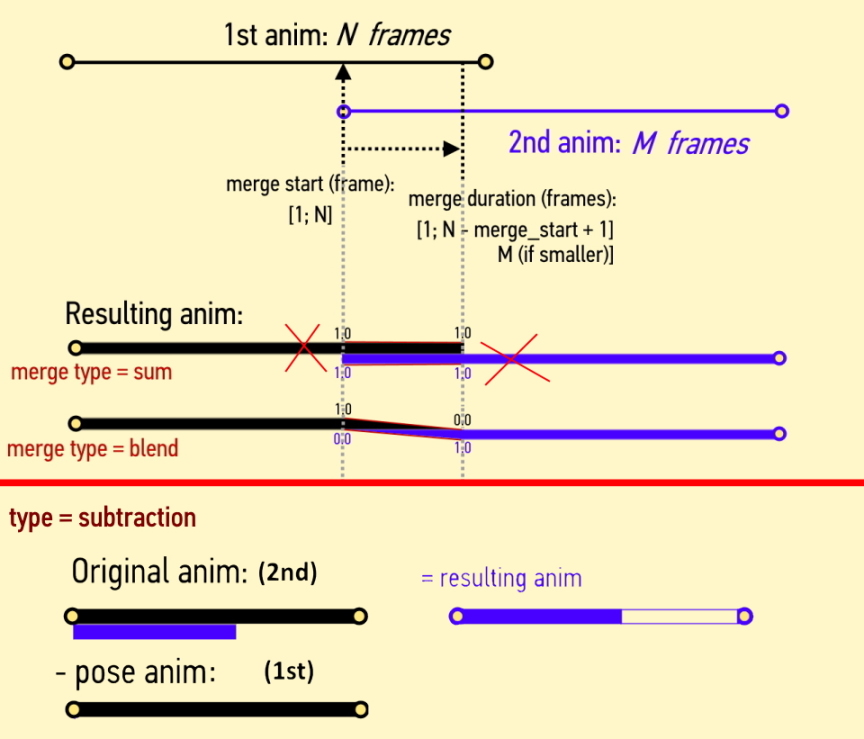
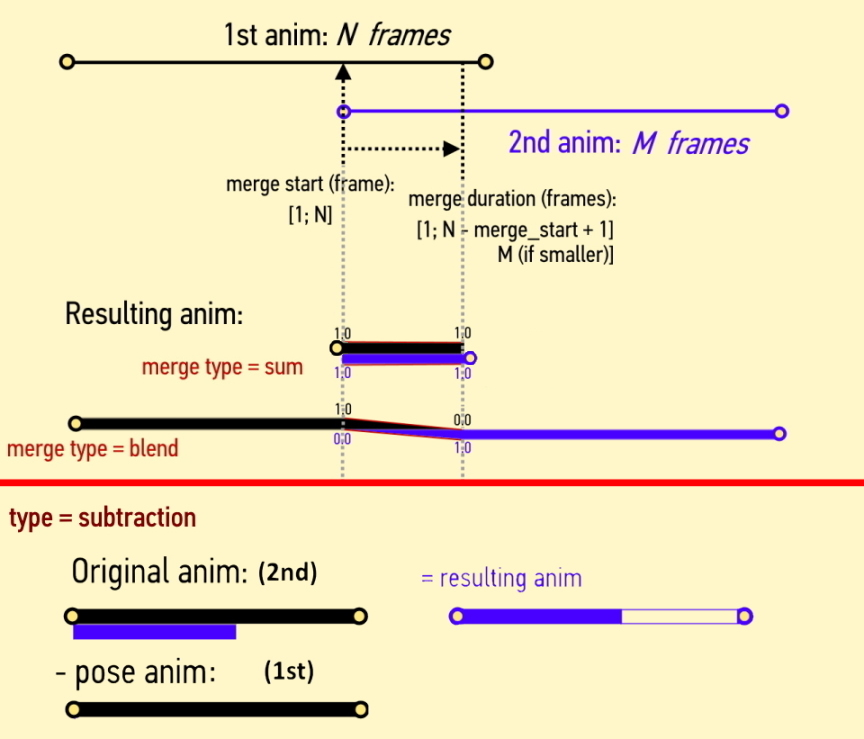
+ Update v2.1: fix bugs & small additions

Changed region(s): [[0.0, 0.4357, 0.4062, 0.5291], [0.5312, 0.4668, 0.9375, 0.5291]]

diff --git a/source/W3MayaAnimUtil.cpp b/source/W3MayaAnimUtil.cpp
@@ -192,7 +192,7 @@ void W3MayaAnimUtil::onClicked_Load() {
 }
 void W3MayaAnimUtil::setCurrentAnimInfo(int bones, int events, int frames, double duration, bool rootMotion, bool motionExtraction) {
     if (frames == -1 && duration < 0) {
-        ui->labelEditInfo->setText("<html><head/><body><p><span style=\"font-weight:700;\">Bones</span>: -. <span style=\"font-weight:700;\">Events</span>: -. <span style=\"font-weight:700;\">Duration</span>: - frames (- s), <span style=\"color:#ff0000;\">rootMotion</span>, <span style=\"color:#ff0000;\">motionExtraction</span><span style=\"color:#000000;\">. </span><span style=\"font-weight:700; color:#000000;\">Anim name</span><span style=\"color:#000000;\">: </span></p></body></html>");
+        ui->labelEditInfo->setText("<html><head/><body><p><span style=\"font-weight:700;\">Bones</span>: -. <span style=\"font-weight:700;\">Events</span>: -. <span style=\"font-weight:700;\">Duration</span>: - frames (- s), <span style=\"color:#ff0000;\">RootMotion</span>, <span style=\"color:#ff0000;\">motionExtraction</span><span style=\"color:#000000;\">. </span><span style=\"font-weight:700; color:#000000;\">Anim name</span><span style=\"color:#000000;\">: </span></p></body></html>");
         ui->spinEditStart->setValue(-1);
         ui->spinEditDuration->setValue(-1);
         ui->spinEditEnd->setValue(-1);
@@ -202,7 +202,7 @@ void W3MayaAnimUtil::setCurrentAnimInfo(int bones, int events, int frames, doubl
         ui->buttonEditApply->setEnabled(false);
         ui->buttonEditApplyAll->setEnabled(false);
     } else {
-        ui->labelEditInfo->setText(QString("<html><head/><body><p><span style=\"font-weight:700;\">Bones</span>: %1. <span style=\"font-weight:700;\">Events</span>: %2. <span style=\"font-weight:700;\">Duration</span>: %3 frames (%4 s), <span style=\"color:%5;\">rootMotion</span>, <span style=\"color:%6;\">motionExtraction</span><span style=\"color:#000000;\">. </span><span style=\"font-weight:700; color:#000000;\">Anim name</span><span style=\"color:#000000;\">: </span></p></body></html>")
+        ui->labelEditInfo->setText(QString("<html><head/><body><p><span style=\"font-weight:700;\">Bones</span>: %1. <span style=\"font-weight:700;\">Events</span>: %2. <span style=\"font-weight:700;\">Duration</span>: %3 frames (%4 s), <span style=\"color:%5;\">RootMotion</span>, <span style=\"color:%6;\">motionExtraction</span><span style=\"color:#000000;\">. </span><span style=\"font-weight:700; color:#000000;\">Anim name</span><span style=\"color:#000000;\">: </span></p></body></html>")
                                    .arg(bones)
                                    .arg(events)
                                    .arg(frames)
@@ -241,6 +241,9 @@ void W3MayaAnimUtil::applyEdits() {
         ui->comboEditAnims->setItemText(m_animIndex, animName);
         m_animNames[m_animIndex] = animName;
         hasChanges = true;
+    }
+    if (ui->checkEditAddRootMotion->isChecked()) {
+
     }
     if (ui->groupEditBake->isChecked()) {
         editBakeBones(animObj, ui->checkEditBakePos->isChecked(), ui->checkEditBakeRot->isChecked(), ui->checkEditBakeScale->isChecked());
@@ -394,6 +397,34 @@ void W3MayaAnimUtil::editCropAnim(QJsonObject& animObj, QJsonArray& eventsArray,
            .arg( framesToSec(durationFrames - 1) ));
 }
 
+void W3MayaAnimUtil::editAddEmptyBone(QJsonArray& bonesArr, QString boneName) {
+    int last_index = 0;
+    if (!bonesArr.isEmpty()) {
+        last_index = bonesArr.last().toObject().value("index").toInt();
+    }
+    addLog(QString("\t[EDIT] Adding empty bone %1 with index %2").arg(boneName).arg(last_index + 1));
+
+    QJsonObject newBoneObj = QJsonObject();
+    newBoneObj.insert("BoneName", boneName);
+    newBoneObj.insert("index", last_index + 1);
+
+    double dt = 0.033333333;
+    QString attrNames[3] = { "position", "rotation", "scale" };
+    upn(j, 0, 2) {
+        newBoneObj.insert(QString("%1_numFrames").arg(attrNames[j]), 1);
+        QJsonArray attrArray = QJsonArray();
+        if (attrNames[j] == "rotation")
+            attrArray.append(objXYZW(0,0,0,1));
+        else if (attrNames[j] == "position")
+            attrArray.append(objXYZ(0,0,0));
+        else
+            attrArray.append(objXYZ(1,1,1));
+        newBoneObj.insert(QString("%1Frames").arg(attrNames[j]), attrArray);
+        newBoneObj.insert(QString("%1_dt").arg(attrNames[j]), dt);
+    }
+    bonesArr.append(newBoneObj);
+}
+
 void W3MayaAnimUtil::editBakeBones(QJsonObject& animObj, bool bakePos, bool bakeRot, bool bakeScale) {
     QJsonObject animBuff = animObj.value("animBuffer").toObject();
     int animFrames = animBuff.value("numFrames").toInt();
@@ -531,6 +562,12 @@ void W3MayaAnimUtil::onChanged_EditCurrentAnim(int newAnimIndex) {
             rootMotion = true;
             break;
         }
+    }
+    if (rootMotion) {
+        ui->checkEditAddRootMotion->setChecked(false);
+        ui->checkEditAddRootMotion->setEnabled(false);
+    } else {
+        ui->checkEditAddRootMotion->setEnabled(true);
     }
     ui->spinEditStart->setMaximum(animFrames);
     ui->spinEditDuration->setMaximum(animFrames);
@@ -780,9 +817,11 @@ void W3MayaAnimUtil::blendMotion(QVector<double>& motion, int animFrames, const 
 }
 void W3MayaAnimUtil::blendPos(QJsonArray& posArray, int targetFrames) {
     QJsonArray resArray;
-    resArray.append( posArray.first() );
     int frames = posArray.count();
     qDebug() << QString("blendPos [%1] -> [%2]").arg(frames).arg(targetFrames);
+    if (frames > targetFrames) {
+        addLog(QString("[ERROR] BlendPos: can't bake! posArray size (%1) is bigger than required (%2).").arg(frames).arg(targetFrames), logError);
+    }
     if (frames == targetFrames)
         return;
     if (frames == 1) {
@@ -792,20 +831,23 @@ void W3MayaAnimUtil::blendPos(QJsonArray& posArray, int targetFrames) {
         posArray = resArray;
         return;
     }
+    resArray.append( posArray.first() );
 
-    double partSize = (targetFrames - 1) / (frames - 1);
-    double currentPartSize = 0;
+    double partSize = (targetFrames - 1.0) / (frames - 1.0);
+    double currentPartSize = 0.0;
+    qDebug() << QString("blendPos.partSize = %1").arg(partSize);
     int j = 0;
     double X1, Y1, Z1;
     double X2, Y2, Z2;
     for (int i = 2; i < targetFrames; i += 1) {
         currentPartSize += 1.0;
+        //qDebug() << QString("blendPos.frame: %1, currentPartSize = %1").arg(currentPartSize);
         if (currentPartSize > partSize) {
             j += 1;
             currentPartSize -= partSize;
         }
         double k = currentPartSize / partSize;
-        qDebug() << QString("blendPos.frame: %1, k = %2").arg(i).arg(k);
+        //qDebug() << QString("blendPos.frame: %1, k = %2, currentPartSize = %3").arg(i).arg(k).arg(currentPartSize);
         k = qMin(1.0, qMax(0.0, k));
         // [j..j+1]
         objToXYZ(posArray[j].toObject(),       X1, Y1, Z1);
@@ -813,15 +855,18 @@ void W3MayaAnimUtil::blendPos(QJsonArray& posArray, int targetFrames) {
         interpolatePos(k, X1, Y1, Z1, X2, Y2, Z2);
         resArray.append( objXYZ(X1, Y1, Z1) );
     }
+    qDebug() << QString("blendPos.lastK = %1 (must be around 1.0)").arg((currentPartSize + 1.0) / partSize);
     resArray.append( posArray.last() );
     posArray = resArray;
     return;
 }
 void W3MayaAnimUtil::blendRot(QJsonArray& rotArray, int targetFrames) {
     QJsonArray resArray;
-    resArray.append( rotArray.first() );
     int frames = rotArray.count();
     qDebug() << QString("blendRot [%1] -> [%2]").arg(frames).arg(targetFrames);
+    if (frames > targetFrames) {
+        addLog(QString("[ERROR] BlendPos: can't bake! posArray size (%1) is bigger than required (%2).").arg(frames).arg(targetFrames), logError);
+    }
     if (frames == targetFrames)
         return;
     if (frames == 1) {
@@ -831,9 +876,11 @@ void W3MayaAnimUtil::blendRot(QJsonArray& rotArray, int targetFrames) {
         rotArray = resArray;
         return;
     }
+    resArray.append( rotArray.first() );
 
-    double partSize = (targetFrames - 1) / (frames - 1);
-    double currentPartSize = 0;
+    double partSize = (targetFrames - 1.0) / (frames - 1.0);
+    qDebug() << QString("blendRot.partSize = %1").arg(partSize);
+    double currentPartSize = 0.0;
     int j = 0;
     double X1, Y1, Z1, W1;
     double X2, Y2, Z2, W2;
@@ -844,7 +891,7 @@ void W3MayaAnimUtil::blendRot(QJsonArray& rotArray, int targetFrames) {
             currentPartSize -= partSize;
         }
         double k = currentPartSize / partSize;
-        qDebug() << QString("blendRot.frame: %1, k = %2").arg(i).arg(k);
+        //qDebug() << QString("blendRot.frame: %1, k = %2, currentPartSize = %3").arg(i).arg(k).arg(currentPartSize);
         k = qMin(1.0, qMax(0.0, k));
         // [j..j+1]
         objToXYZW(rotArray[j].toObject(),       X1, Y1, Z1, W1);
@@ -852,6 +899,7 @@ void W3MayaAnimUtil::blendRot(QJsonArray& rotArray, int targetFrames) {
         interpolateRot(k, X1, Y1, Z1, W1, X2, Y2, Z2, W2);
         resArray.append( objXYZW(X1, Y1, Z1, W1) );
     }
+    qDebug() << QString("blendRot.lastK = %1 (must be around 1.0)").arg((currentPartSize + 1.0) / partSize);
     resArray.append( rotArray.last() );
     rotArray = resArray;
     return;
@@ -2462,17 +2510,27 @@ void W3MayaAnimUtil::onClicked_MergeProcess() {
     editBakeBones(animObjS, true, true, false);
     QJsonObject animBuffS = animObjS.value("animBuffer").toObject();
     QJsonArray animBonesS = animBuffS.value("bones").toArray();
-    QMap<QString, QJsonObject> boneByNameS;
+    QMap<QString, QJsonObject> boneByNameF, boneByNameS;
 
-    for (int i = 0; i < animBonesS.size(); i += 1) {
+    for (int i = 0; i < animBonesS.count(); i += 1) {
         QString boneNameS = animBonesS[i].toObject().value("BoneName").toString();
         boneByNameS[boneNameS] = animBonesS[i].toObject();
     }
-
-    for (int i = 0; i < animBonesF.size(); i += 1) {
+    for (int i = 0; i < animBonesF.count(); i += 1) {
         QString boneNameF = animBonesF[i].toObject().value("BoneName").toString();
-        if ( boneNameF == "RootMotion" )
-            continue;
+        boneByNameF[boneNameF] = animBonesF[i].toObject();
+    }
+    if (!boneByNameF.contains("RootMotion")) {
+        editAddEmptyBone(animBonesF, "RootMotion");
+        boneByNameF["RootMotion"] = animBonesF.last().toObject();
+    }
+    if (!boneByNameS.contains("RootMotion")) {
+        editAddEmptyBone(animBonesS, "RootMotion");
+        boneByNameS["RootMotion"] = animBonesS.last().toObject();
+    }
+
+    for (int i = 0; i < animBonesF.count(); i += 1) {
+        QString boneNameF = animBonesF[i].toObject().value("BoneName").toString();
         if ( !boneByNameS.contains(boneNameF) ) {
             addLog(QString("Can't find bone %1 in source anim!").arg(boneNameF), logError);
             continue;
@@ -2482,7 +2540,7 @@ void W3MayaAnimUtil::onClicked_MergeProcess() {
     // for every bone
     for (int j = 0; j < animBonesF.count(); j += 1) {
         QString boneNameF = animBonesF[j].toObject().value("BoneName").toString();
-        if ( boneNameF == "RootMotion" )
+        if ( !isBlend && boneNameF == "RootMotion" )
             continue;
 
         QJsonObject boneF = animBonesF[j].toObject();
@@ -2503,7 +2561,7 @@ void W3MayaAnimUtil::onClicked_MergeProcess() {
             double incrK = 1.0 / mergeDuration;
             for (int frame = mergeStart; frame < mergeStart + mergeDuration - 1; frame += 1) {
                 K += incrK;
-                //qDebug() << QString("bone %1, frame %2, interpol: K = %3").arg(boneNameF).arg(frame).arg(K);
+                qDebug() << QString("bone %1, frame %2, interpol: K = %3").arg(boneNameF).arg(frame).arg(K);
                 /* pos */
                 objToXYZ(posArrF.at(frame - 1).toObject(), pX1, pY1, pZ1);
                 objToXYZ(posArrS.at(frame - mergeStart).toObject(), pX2, pY2, pZ2);
@@ -2516,6 +2574,20 @@ void W3MayaAnimUtil::onClicked_MergeProcess() {
                 objToXYZW(rotArrS.at(frame - mergeStart).toObject(), pX2, pY2, pZ2, pW2);
                 interpolateRot(K, pX1, pY1, pZ1, pW1, pX2, pY2, pZ2, pW2);
                 rotArrF[frame - 1] = objXYZW(pX1, pY1, pZ1, pW1);
+            }
+            // the last one (frame == mergeStart + mergeDuration - 1): K = 1.0 vvv
+            // add remaining SecondAnim frames (if they exist)
+            for (int frame = mergeStart + mergeDuration - 1; frame < mergeStart + posArrS.count(); frame += 1) {
+                qDebug() << QString("bone %1, frame %2, remaining (K = 1.0)").arg(boneNameF).arg(frame);
+                if (posArrF.count() < frame)
+                    posArrF.append( posArrS[frame - mergeStart] );
+                else
+                    posArrF[frame - 1] = posArrS[frame - mergeStart];
+
+                if (rotArrF.count() < frame)
+                    rotArrF.append( rotArrS[frame - mergeStart] );
+               else
+                    rotArrF[frame - 1] = rotArrS[frame - mergeStart];
             }
         } else if (ui->comboMergeType->currentIndex() == 1 /* SUM */) {
             // SUM
@@ -2579,6 +2651,7 @@ void W3MayaAnimUtil::onClicked_MergeProcess() {
                 rotArrF[frame - 1] = objXYZW(sumQ.x(), sumQ.y(), sumQ.z(), sumQ.scalar());
             }
             if (ui->checkMergeCropToSecond->isChecked()) {
+                addLog(QString("\t[MERGE] Cropping anim from %1 to %2 frames.").arg(posArrF.count()).arg(framesS));
                 while (posArrF.count() > framesS) {
                     posArrF.pop_back();
                 }
@@ -2586,6 +2659,8 @@ void W3MayaAnimUtil::onClicked_MergeProcess() {
                     rotArrF.pop_back();
                 }
                 qDebug() << "pop to: " << framesS;
+            } else {
+                addLog(QString("\t[MERGE] Cropping option is disabled, leaving %1 frames.").arg(posArrF.count()));
             }
         } else if (ui->comboMergeType->currentIndex() == 2 /* SUBTRACT */) {
             // SUBTRACT [mergeStart; mergeStart + mergeDuration - 1]
@@ -2621,22 +2696,6 @@ void W3MayaAnimUtil::onClicked_MergeProcess() {
                     subQ = QQuaternion::fromEulerAngles(eulerMerged - eulerPose);
                 subQ.normalize();
                 rotArrF[frame - 1] = objXYZW(subQ.x(), subQ.y(), subQ.z(), subQ.scalar());
-            }
-        }
-        if (isBlend) {
-            // the last one (frame == mergeStart + mergeDuration - 1): K = 1.0 vvv
-            // add remaining SecondAnim frames (if they exist)
-            for (int frame = mergeStart + mergeDuration - 1; frame < mergeStart + posArrS.count(); frame += 1) {
-                //qDebug() << QString("bone %1, frame %2, remaining").arg(boneNameF).arg(frame);
-                if (posArrF.count() < frame)
-                    posArrF.append( posArrS[frame - mergeStart] );
-                else
-                    posArrF[frame - 1] = posArrS[frame - mergeStart];
-
-                if (rotArrF.count() < frame)
-                    rotArrF.append( rotArrS[frame - mergeStart] );
-               else
-                    rotArrF[frame - 1] = rotArrS[frame - mergeStart];
             }
         }
         // else do nothing
@@ -2709,4 +2768,3 @@ W3MayaAnimUtil::~W3MayaAnimUtil()
 {
     delete ui;
 }
-

diff --git a/source/W3MayaAnimUtil.h b/source/W3MayaAnimUtil.h
@@ -89,6 +89,7 @@ private:
     void editSetCDPRDuration(QJsonObject& animObj);
     void editSortEvents(QJsonArray& eventsArray);
     void editRenameAnim(QJsonObject& animObj, QJsonArray& eventsArray, QString newName);
+    void editAddEmptyBone(QJsonArray& bonesArr, QString boneName);
     int m_animIndex;
     void applyEdits();
 
